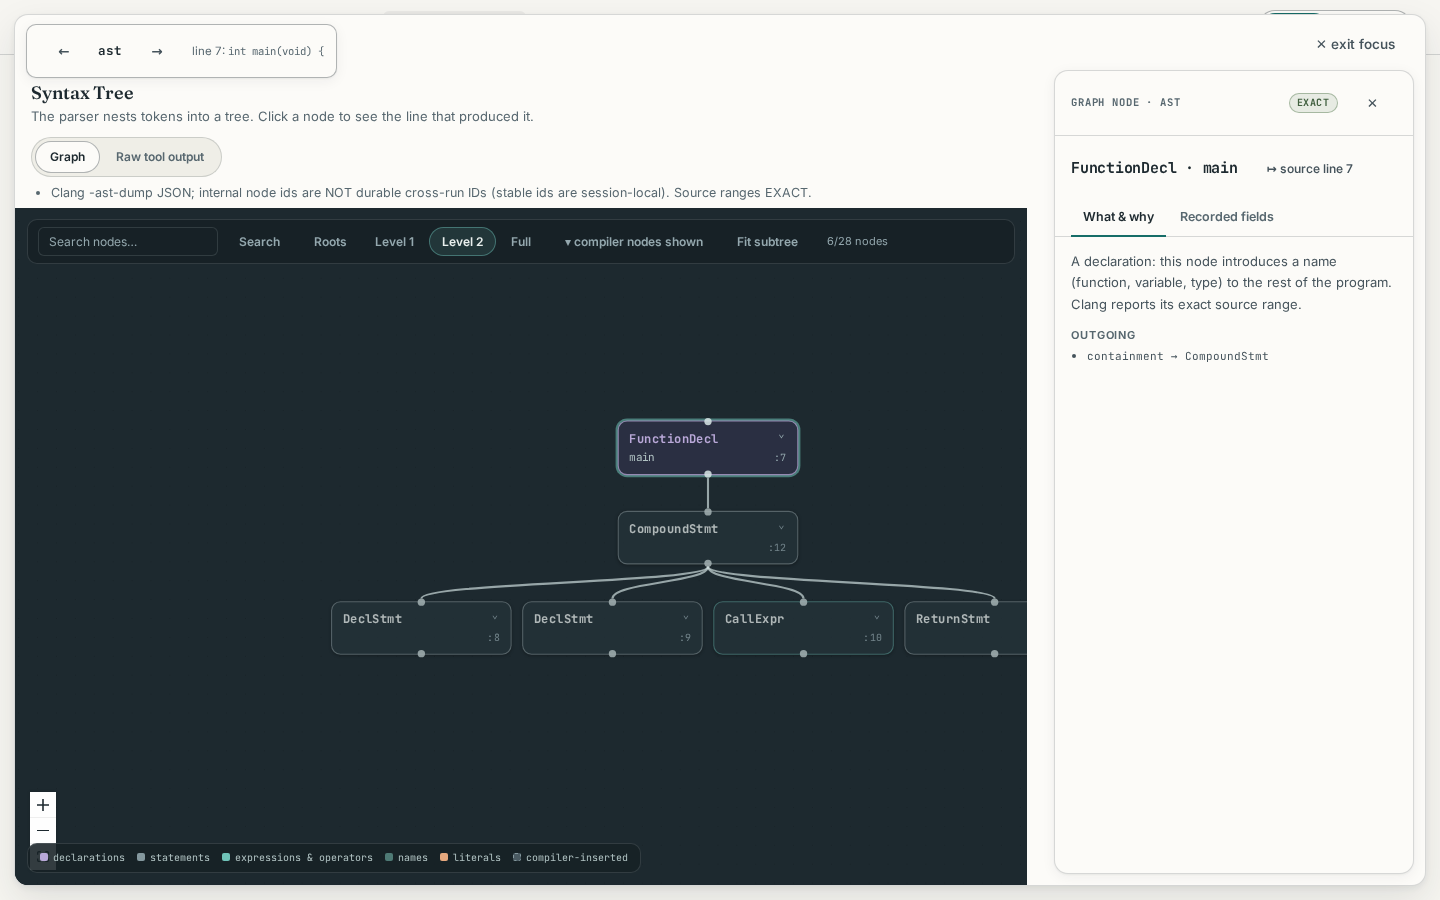
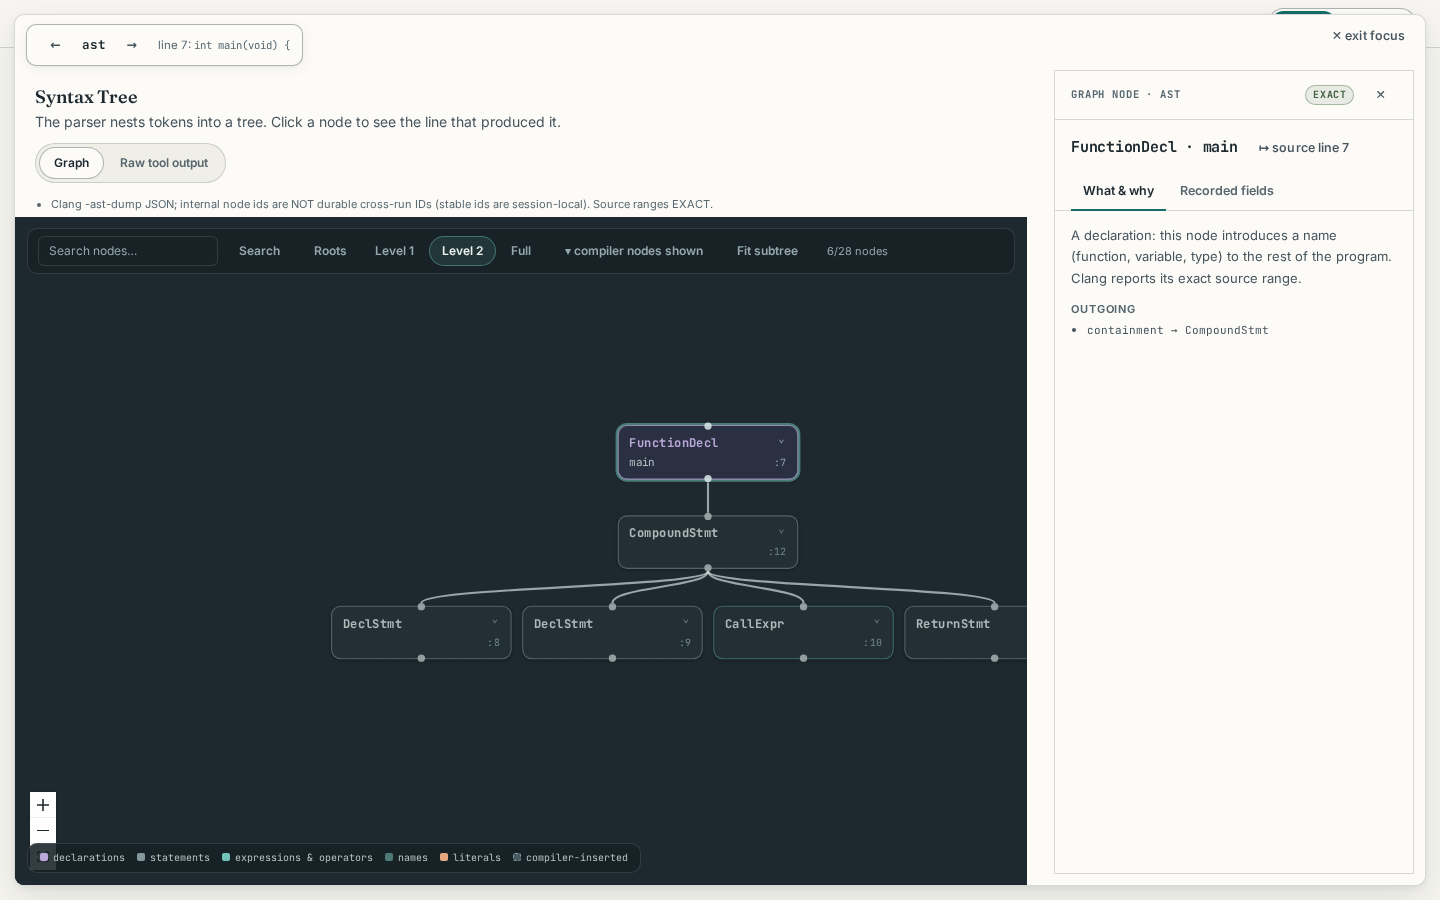
UI rework, part 1: tokens, header, aligned workspace, stepper, flat observatory
- Add spacing/type/surface tokens and a redesign.css layer (one button size, flat nested panels)
- Workspace: title and actions on one row; view tabs and file list share one strip
- Fix columns: source dock no longer offset by a leftover sticky top; panels align
- Journey navigator becomes a numbered stepper; inspector collapses to a slim strip
- Execution observatory fills the frame, trace scrolls, controls stay pinned
- e2e: Run button selector now .obs-actions; screenshots regenerated

diff --git a/frontend/src/styles/redesign.css b/frontend/src/styles/redesign.css
@@ -1,0 +1,198 @@
+/* CompileVista — design rework layer (loaded last).
+ * Goals: one rhythm (spacing/type tokens), flat sections instead of boxes in boxes,
+ * a compact two-layer header, aligned columns, a readable stepper, quiet data strips.
+ * Everything here overrides earlier files on purpose; selectors and aria are unchanged. */
+
+/* ——— buttons: one size, four roles ——— */
+.btn {
+  min-height: 32px; padding: 0 14px; font-size: var(--fs-label); border-radius: var(--r-s);
+  gap: 6px; letter-spacing: 0.005em;
+}
+.btn.primary { box-shadow: none; }
+.btn.primary:hover { box-shadow: none; }
+.btn:hover { box-shadow: none; border-color: var(--teal); color: var(--ink); }
+.btn.primary:hover { color: #f4faf8; }
+.btn.run { border-color: var(--line-strong); color: var(--clay-text); background: var(--surface); }
+.btn.run:hover { border-color: var(--clay); background: var(--clay-dim); }
+.btn.ghost { min-height: 28px; padding: 0 10px; }
+.btn.ghost:hover { border-color: transparent; background: rgba(29, 41, 47, 0.06); }
+
+/* ——— chips: quiet metadata, not buttons ——— */
+.chip { font-size: var(--fs-micro); padding: 1px 8px; background: transparent; }
+
+/* ——— surfaces: flatten nesting ——— */
+.panel { box-shadow: none; border-radius: var(--r-m); }
+.panel .panel, .bezel .panel {
+  border: 0; border-radius: 0; box-shadow: none; background: transparent;
+}
+.panel-h, .theater-pane-h { background: transparent; }
+.panel-h { padding: 10px 16px; font-size: var(--fs-label); }
+
+/* ——— top navigation: slim, one line ——— */
+.topnav { height: var(--bar-h); padding: 0 24px; gap: 4px; }
+.topnav .brand { margin-right: 20px; }
+.topnav a.navlink { padding: 0 12px; height: var(--bar-h); display: inline-flex; align-items: center; border-radius: 0; font-size: var(--fs-label); }
+.topnav a.navlink:hover { background: transparent; color: var(--teal); }
+.topnav a.navlink.active { background: transparent; box-shadow: inset 0 -2px 0 var(--teal); }
+.modeswitch button { font-size: var(--fs-micro); padding: 3px 12px; }
+
+/* ——— program header: title + actions on one row ——— */
+.obs-app { padding: 12px 20px 14px; gap: 0; height: calc(100vh - var(--bar-h)); }
+.obs-top {
+  display: flex; align-items: center; gap: var(--sp-4); flex-wrap: wrap;
+  flex-shrink: 0; padding-bottom: var(--sp-3);
+}
+.obs-top .obs-head { flex: 1 1 320px; margin: 0; min-width: 0; }
+.obs-app .obs-title { gap: var(--sp-2); }
+.obs-app .obs-title h1 { font-size: var(--fs-page); line-height: 1.2; }
+.obs-app .obs-title .chip { color: var(--ink-3); }
+.obs-actions { display: flex; align-items: center; gap: var(--sp-2); flex-wrap: wrap; }
+.obs-actions .btn.primary { min-height: 36px; padding: 0 18px; }
+
+/* ——— tool row: view tabs (left) + file list (right) ——— */
+.obs-app .obs-toolrow {
+  display: flex; align-items: flex-end; gap: var(--sp-4); flex-wrap: wrap;
+  flex-shrink: 0; margin: 0 0 var(--sp-3); padding: 0; border-bottom: var(--hairline);
+}
+.obs-toolrow .spacer { flex: 1; }
+.obs-toolrow:not(:has(.obs-viewtabs)) .spacer { display: none; }
+.obs-app .obs-viewtabs {
+  background: none; border: 0; border-radius: 0; padding: 0; margin: 0; gap: var(--sp-1);
+  width: auto; flex-wrap: wrap;
+}
+.obs-app .obs-viewtabs button {
+  border: 0; border-bottom: 2px solid transparent; border-radius: 0; margin-bottom: -1px;
+  padding: 9px 14px; font-size: var(--fs-label); color: var(--ink-3); background: none; box-shadow: none;
+}
+.obs-app .obs-viewtabs button:hover { color: var(--ink); }
+.obs-app .obs-viewtabs button.active { color: var(--ink); border-bottom-color: var(--teal); background: none; box-shadow: none; }
+.obs-toolrow .filechips { display: flex; gap: 6px; flex-wrap: wrap; padding-bottom: 6px; }
+.obs-toolrow .filechip { border-radius: var(--r-s); padding: 3px 10px; font-size: var(--fs-micro); }
+
+/* ——— workspace grid: three aligned columns ——— */
+.obs-app .obs-grid { gap: var(--sp-3); align-items: stretch; }
+.obs-app .obs-left, .obs-app .obs-right { align-self: stretch; top: 0; }
+.obs-app .obs-left .sourcedock, .obs-app .obs-right .inspector { margin: 0; flex: 1; min-height: 0; }
+.obs-app .obs-center { gap: var(--sp-3); }
+.obs-app .obs-right { width: 320px; }
+.obs-app .obs-right-rail { width: 36px; align-self: start; }
+.obs-right-rail button {
+  writing-mode: horizontal-tb; letter-spacing: 0; text-transform: none;
+  font-family: var(--font-ui); font-size: 0; font-weight: 600;
+  width: 36px; height: 36px; padding: 0; border-radius: var(--r-s);
+  display: grid; place-items: center;
+}
+.obs-right-rail button::before { content: "‹"; font-size: 20px; line-height: 1; color: var(--ink-2); }
+
+/* source dock */
+.sourcedock .panel-h { padding: 9px 14px; }
+.sourcedock-body { font-size: var(--fs-code); line-height: 1.7; }
+
+/* ——— compilation journey: numbered stepper ——— */
+.journey-rail {
+  gap: 0; padding: 0; border-radius: var(--r-m); align-items: stretch; background: var(--surface);
+}
+.journey-cap { display: none; }
+.journey-phase { padding: 10px 18px; border-left: var(--hairline); gap: 6px; }
+.journey-rail > .journey-phase:first-of-type { border-left: 0; }
+.journey-phase-label { font-size: var(--fs-micro); letter-spacing: 0.08em; color: var(--ink-3); }
+.journey-rail { counter-reset: stg; }
+.journey-stages li { counter-increment: stg; }
+button.jstage {
+  padding: 3px 10px 3px 4px; gap: 8px; border-radius: 999px; font-size: var(--fs-label);
+  color: var(--ink-2);
+}
+.jstage-dot {
+  width: 20px; height: 20px; display: inline-grid; place-items: center;
+  border: 1.5px solid var(--line-strong); background: var(--surface);
+  font-family: var(--font-mono); font-size: 10px; color: var(--ink-3); font-weight: 600;
+}
+.jstage-dot::before { content: counter(stg); }
+button.jstage.ok .jstage-dot { background: var(--moss-dim); border-color: var(--moss); color: var(--moss-text); }
+button.jstage.partial .jstage-dot { background: var(--clay-dim); border-color: var(--clay); color: var(--clay-text); }
+button.jstage.active { background: var(--teal-dim); border-color: transparent; color: var(--ink); }
+button.jstage.active .jstage-dot { background: var(--teal); border-color: var(--teal); color: #f4faf8; }
+.jstage-link { margin: 0 4px; }
+.jstage-link::after { content: ""; display: block; width: 14px; height: 1px; background: var(--line-strong); }
+.journey-actions { padding: 0 14px; align-self: stretch; display: flex; align-items: center; margin-left: auto; }
+.guided-narration { border-radius: var(--r-m); }
+
+/* ——— stage canvas ——— */
+.obs-canvas.panel { background: var(--surface); border: var(--hairline); }
+.obs-app .sc-head, .sc-head { padding: 14px 110px 8px 20px; }
+.sc-title h2 { font-size: var(--fs-title); }
+.sc-what { font-size: var(--fs-body); color: var(--ink-2); }
+.fs-toggle { top: 10px; right: 12px; border: var(--hairline); background: var(--surface); }
+.fs-toggle:hover { border-color: var(--teal); }
+.sc-viewtoggle { background: var(--surface-sunk); }
+.stagecanvas > .limits { margin: 4px 20px 8px; font-size: var(--fs-micro); }
+/* focus mode keeps its bar, but the exit control now sits inside the bar row */
+.fs-exit { top: 22px; right: 24px; }
+
+/* ——— inspector ——— */
+.inspector.panel { border: var(--hairline); background: var(--surface); }
+.inspector .panel-h { text-transform: uppercase; font-size: var(--fs-micro); letter-spacing: 0.08em; color: var(--ink-3); }
+.insp-empty { padding: 16px; font-size: var(--fs-body); }
+
+/* ——— execution observatory + watch: flat, aligned, quiet data ——— */
+.execdock.panel { border: var(--hairline); background: var(--surface); }
+.execdock-h { padding: 8px 14px; gap: var(--sp-2); border-bottom: var(--hairline); }
+.execdock-h > .btn.ghost:first-child { font-weight: 650; font-size: var(--fs-body); padding-left: 0; }
+.exectabs { padding: 0 14px; gap: var(--sp-1); background: transparent; }
+.exectabs button {
+  border: 0 !important; border-bottom: 2px solid transparent !important; border-radius: 0 !important;
+  margin-bottom: -1px; padding: 9px 12px !important; font-size: var(--fs-label) !important;
+  background: none !important; color: var(--ink-3);
+}
+.exectabs button.active { color: var(--ink); border-bottom-color: var(--teal) !important; }
+.theater { padding: 12px 14px 12px; gap: var(--sp-3); }
+.theater-stats {
+  padding-bottom: var(--sp-3); border-bottom: var(--hairline); gap: 6px 14px;
+  font-size: var(--fs-label);
+}
+.theater-stats .chip:not(.kindchip) {
+  border: 0; padding: 0; background: none; color: var(--ink-2); font-size: var(--fs-label);
+}
+.theater-stats .chip:not(.kindchip) .tf-dot { margin-right: 4px; }
+.theater-stats .kindchip { padding: 2px 10px; }
+.theater-grid { gap: 0; }
+.theater-tree { border-right: var(--hairline); padding-right: var(--sp-3); }
+.theater-right { padding-left: var(--sp-3); }
+.theater .theater-pane-h { padding: 4px 0 8px; border-bottom: var(--hairline); margin-bottom: var(--sp-2); }
+.wt-flow .theater-pane-h, .wt-vars .theater-pane-h, .wt-stack .theater-pane-h, .wt-out .theater-pane-h { padding: 10px 14px 8px; margin: 0; }
+.wt-head .muted { font-size: var(--fs-label); }
+.walkthrough { padding: 0 2px 16px; }
+.calldetail { margin-bottom: var(--sp-3); padding-bottom: var(--sp-3); border-bottom: var(--hairline); }
+.cd-body { padding: 0; }
+.tower-body { padding: 4px 2px 8px; }
+.tower-locals .insp-fields { margin: 4px 0 10px; width: 100%; }
+.theater-controls {
+  padding: 8px 0 0; border-top: var(--hairline);
+}
+.trustnote { margin: 8px 14px 0; }
+
+@media (min-width: 1181px) {
+  /* the observatory fills the frame: the trace pane scrolls, the controls stay put */
+  .obs-app .execdock { overflow: hidden; }
+  .obs-app .execdock > .theater { overflow: hidden; }
+  .obs-app .theater-grid { flex: 1; min-height: 0; grid-template-rows: minmax(0, 1fr); align-items: stretch; }
+  .obs-app .theater-tree { display: flex; flex-direction: column; min-height: 0; }
+  .obs-app .theater-tree-body { flex: 1; max-height: none; min-height: 0; }
+  .obs-app .theater-right { overflow: auto; min-height: 0; }
+  .obs-app .theater-controls { flex-shrink: 0; }
+  .obs-app .execdock > .memscope, .obs-app .execdock > .proscope, .obs-app .execdock > .execoutput { flex: 1; min-height: 0; overflow: auto; }
+}
+
+@media (max-width: 1180px) {
+  .obs-app { height: auto; }
+  .obs-top { align-items: flex-start; }
+  .obs-app .sc-head, .sc-head { padding: 44px 20px 8px; }
+  .theater-tree { border-right: 0; padding-right: 0; }
+  .theater-right { padding-left: 0; padding-top: var(--sp-3); }
+}
+@media (max-width: 720px) {
+  .topnav { height: auto; min-height: var(--bar-h); }
+  .topnav a.navlink { height: var(--bar-h); }
+  .journey-phase { padding: 8px 12px; }
+  .journey-actions { border-left: 0; }
+}

diff --git a/frontend/src/pages/Workspace.tsx b/frontend/src/pages/Workspace.tsx
@@ -437,11 +437,51 @@ export default function Workspace() {
   }
 
   /* ——— observatory (viewport-oriented app) ——— */
+  const showTabs = job?.status === "COMPLETED" || (!!executionId && !analysisId);
   return (
     <main className="obs obs-app">
-      {header}
-      <div className="obs-filebar">
-        {/* the list holds only the file chips; the action buttons sit beside it */}
+      <div className="obs-top">
+        {header}
+        <div className="obs-actions">
+          {analyzableTarget && (
+            <button className="btn primary" onClick={startAnalysis} disabled={!!analysisId && ["QUEUED", "RUNNING"].includes(job?.status ?? "")}>
+              {analysisId && job && ["QUEUED", "RUNNING"].includes(job.status)
+                ? <><span className="spinner" /> analyzing…</>
+                : `Analyze with ${lang === "c" ? "Clang/LLVM 18" : "CPython 3.12"}`}
+            </button>
+          )}
+          {runnableTarget && (
+            <>
+              <button className="btn run" onClick={() => startRun()}>Run in restricted container</button>
+              <button className="btn ghost" onClick={() => startRun("debug")}
+                      title="MemoryScope debugger capture — curated allowlisted C fixtures only (ADR-0008); other code is refused with an explanation.">
+                Debug run (curated)
+              </button>
+            </>
+          )}
+        </div>
+      </div>
+      <div className="obs-toolrow obs-filebar">
+        {showTabs && (
+          <div className="obs-viewtabs" role="tablist" aria-label="workspace views">
+            <button role="tab" aria-selected={view === "compile"} className={view === "compile" ? "active" : ""}
+                    onClick={() => setView("compile")}>Compilation journey</button>
+            {executionId && (
+              <button role="tab" aria-selected={view === "execution"} className={view === "execution" ? "active" : ""}
+                      onClick={() => setView("execution")}>Execution observatory</button>
+            )}
+            {executionId && (
+              <button role="tab" aria-selected={view === "walkthrough"} className={view === "walkthrough" ? "active" : ""}
+                      onClick={() => setView("walkthrough")}>Watch it work</button>
+            )}
+            {optPair && (
+              <button role="tab" aria-selected={view === "optimization"} className={view === "optimization" ? "active" : ""}
+                      onClick={() => setView("optimization")}>Optimization lab</button>
+            )}
+          </div>
+        )}
+        <span className="spacer" />
+        {/* the list holds only the file chips */}
         <div role="list" aria-label="snapshot files" className="filechips">
           {[...snapshot.files]
             .sort((a, b) => a.rel_path.localeCompare(b.rel_path))
@@ -459,23 +499,6 @@ export default function Workspace() {
               );
             })}
         </div>
-        <span className="spacer" />
-        {analyzableTarget && (
-          <button className="btn primary" onClick={startAnalysis} disabled={!!analysisId && ["QUEUED", "RUNNING"].includes(job?.status ?? "")}>
-            {analysisId && job && ["QUEUED", "RUNNING"].includes(job.status)
-              ? <><span className="spinner" /> analyzing…</>
-              : `Analyze with ${lang === "c" ? "Clang/LLVM 18" : "CPython 3.12"}`}
-          </button>
-        )}
-        {runnableTarget && (
-          <>
-            <button className="btn run" onClick={() => startRun()}>Run in restricted container</button>
-            <button className="btn" onClick={() => startRun("debug")}
-                    title="MemoryScope debugger capture — curated allowlisted C fixtures only (ADR-0008); other code is refused with an explanation.">
-              Debug run (curated)
-            </button>
-          </>
-        )}
       </div>
       {analyzableTarget && analyzableTarget !== runnableTarget && analyzableTarget.reasons.length > 0 && (
         <ul className="obs-reasons tech-only">
@@ -532,22 +555,6 @@ export default function Workspace() {
 
       {(job?.status === "COMPLETED" || (executionId && !analysisId)) && (
         <>
-        <div className="obs-viewtabs" role="tablist" aria-label="workspace views">
-          <button role="tab" aria-selected={view === "compile"} className={view === "compile" ? "active" : ""}
-                  onClick={() => setView("compile")}>Compilation journey</button>
-          {executionId && (
-            <button role="tab" aria-selected={view === "execution"} className={view === "execution" ? "active" : ""}
-                    onClick={() => setView("execution")}>Execution observatory</button>
-          )}
-          {executionId && (
-            <button role="tab" aria-selected={view === "walkthrough"} className={view === "walkthrough" ? "active" : ""}
-                    onClick={() => setView("walkthrough")}>Watch it work</button>
-          )}
-          {optPair && (
-            <button role="tab" aria-selected={view === "optimization"} className={view === "optimization" ? "active" : ""}
-                    onClick={() => setView("optimization")}>Optimization lab</button>
-          )}
-        </div>
         <div className={"obs-grid" + (inspectorOpen ? "" : " insp-collapsed")}>
           <div className="obs-left" style={{ width: sourceW, flex: `0 0 ${sourceW}px` }}>
             <SourceDock text={sourceText} path={selected?.rel_path ?? "?"} language={lang}
@@ -650,7 +657,7 @@ export default function Workspace() {
             </div>
           ) : (
             <div className="obs-right-rail">
-              <button onClick={() => setInspectorOpen(true)}>contextual inspector</button>
+              <button onClick={() => setInspectorOpen(true)} aria-label="open contextual inspector" title="open the contextual inspector">Inspector</button>
             </div>
           )}
         </div>

diff --git a/frontend/src/styles/tokens.css b/frontend/src/styles/tokens.css
@@ -82,6 +82,25 @@
   --shadow-1: 0 1px 2px rgba(29, 41, 47, 0.05), 0 3px 14px rgba(29, 41, 47, 0.06);
   --shadow-2: 0 2px 6px rgba(29, 41, 47, 0.07), 0 14px 36px rgba(29, 41, 47, 0.1);
 
+
+  /* ——— spacing scale (use these, not ad-hoc pixels) ——— */
+  --sp-1: 4px; --sp-2: 8px; --sp-3: 12px; --sp-4: 16px; --sp-5: 24px; --sp-6: 32px; --sp-7: 48px;
+
+  /* ——— type scale: one role per size ——— */
+  --fs-micro: 11px;   /* overlines, badges */
+  --fs-label: 12.5px; /* tabs, buttons, chips, table heads */
+  --fs-body: 14px;    /* running text, panels */
+  --fs-lead: 15px;    /* page intro */
+  --fs-title: 18px;   /* panel / stage titles */
+  --fs-page: 22px;    /* page titles */
+  --fs-code: 12.5px;  /* code and mono data */
+
+  /* ——— surfaces: one border, two elevations ——— */
+  --surface: var(--bg-raised);
+  --surface-sunk: var(--bg-inset);
+  --hairline: 1px solid var(--line);
+  --bar-h: 48px;      /* top navigation height */
+
   /* ——— motion ——— */
   --t-fast: 140ms;
   --t-med: 260ms;

diff --git a/frontend/src/index.css b/frontend/src/index.css
@@ -7,3 +7,4 @@
 @import "./styles/base.css";
 @import "./styles/landing.css";
 @import "./styles/observatory.css";
+@import "./styles/redesign.css";

diff --git a/e2e/m8d_journeys.py b/e2e/m8d_journeys.py
@@ -282,7 +282,7 @@ def j9_modes_focus_resize_reload(page) -> None:
     ok(page.locator(".obs-app").is_visible(), "journey restored after reload")
     shot(page, "j9_workspace_1440.png")
     # playback controls exist in the walkthrough (needs a run — PY-03 has one via Run)
-    run_btn = page.locator(".obs-filebar button", has_text="Run in restricted container")
+    run_btn = page.locator(".obs-actions button", has_text="Run in restricted container")
     expect(run_btn).to_be_visible(timeout=30_000)
     run_btn.click()
     page.wait_for_url("**/workspace?*execution=*", timeout=120_000)
